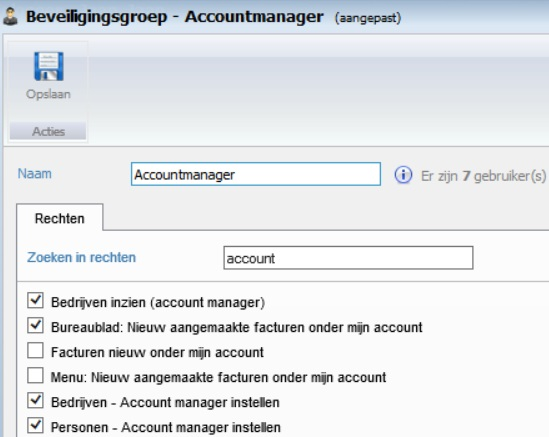
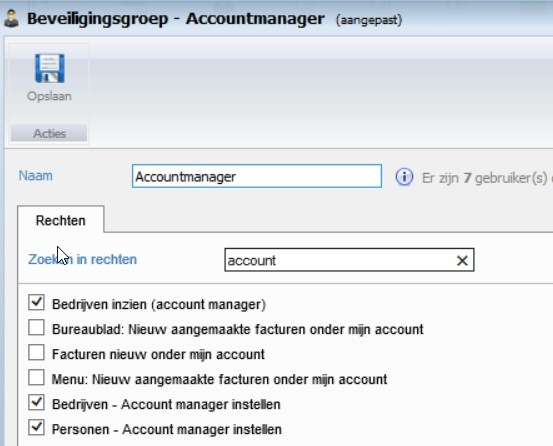
commissie

diff --git a/pages/handleiding/modules/commissie.md b/pages/handleiding/modules/commissie.md
@@ -12,8 +12,12 @@ Commissie
 ================================
 Als bedrijf kan je externe bedrijven en/of personen inzetten om arbeid te verrichten. in De bouw praat je dan over onderaannemers en in de groothandel over vertegenwoordigers (accountmanagers). Deze diensten kan je belonen via commissie. Hier wordt beschreven welke stappen je moet doorlopen om commissie in te richten.
 
-Aanmaken accountmanager 
-![](pages/handleiding/modules/images/relatie-accountmanager.jpg) 
+
+**Rechten aanpassen**
+
+Als je accountmanagers wilt gebruiken dan moeten er rechten worden aangepast. Dit kan bij "Beveiligingsgroepen" of bij "Gebruikers wijzigen". De rechten die dan aangezet moeten worden staan in onderstaand plaatje. 
+ 
+![](pages/handleiding/modules/images/rechten-accountmanager.jpg)
 
 **Koppeling maken met een accountmanager**
 
@@ -62,8 +66,25 @@ Ga via het menu naar "Commissies", naar "commissies beheren". Kies dan voor "Toe
   
 ![](pages/handleiding/modules/images/commissie-toevoegen-beheer.jpg) 
 
-Als je 
+**Functionaliteit**
 
+- Klant: Klant A
+- Leverancier: Leverancier A
+- Accountmanager : Piet van Testpersoon
+- Commissie: Alle producten; 10 %
+- Producten zijn op voorraad
+
+
+Er wordt een order ingevoerd voor Klant A, met 2 producten van 100 euro per product. Totaalprijs 200 euro 
+
+- Order goedkeuren
+- Order afhandelen 
+- Order factureren
+
+
+
+
+---
 - emailsjabbloon aanmaken
 - wordsjabloon aanmaken
 - documentschema's aanpassen (onderaannemersbon)
